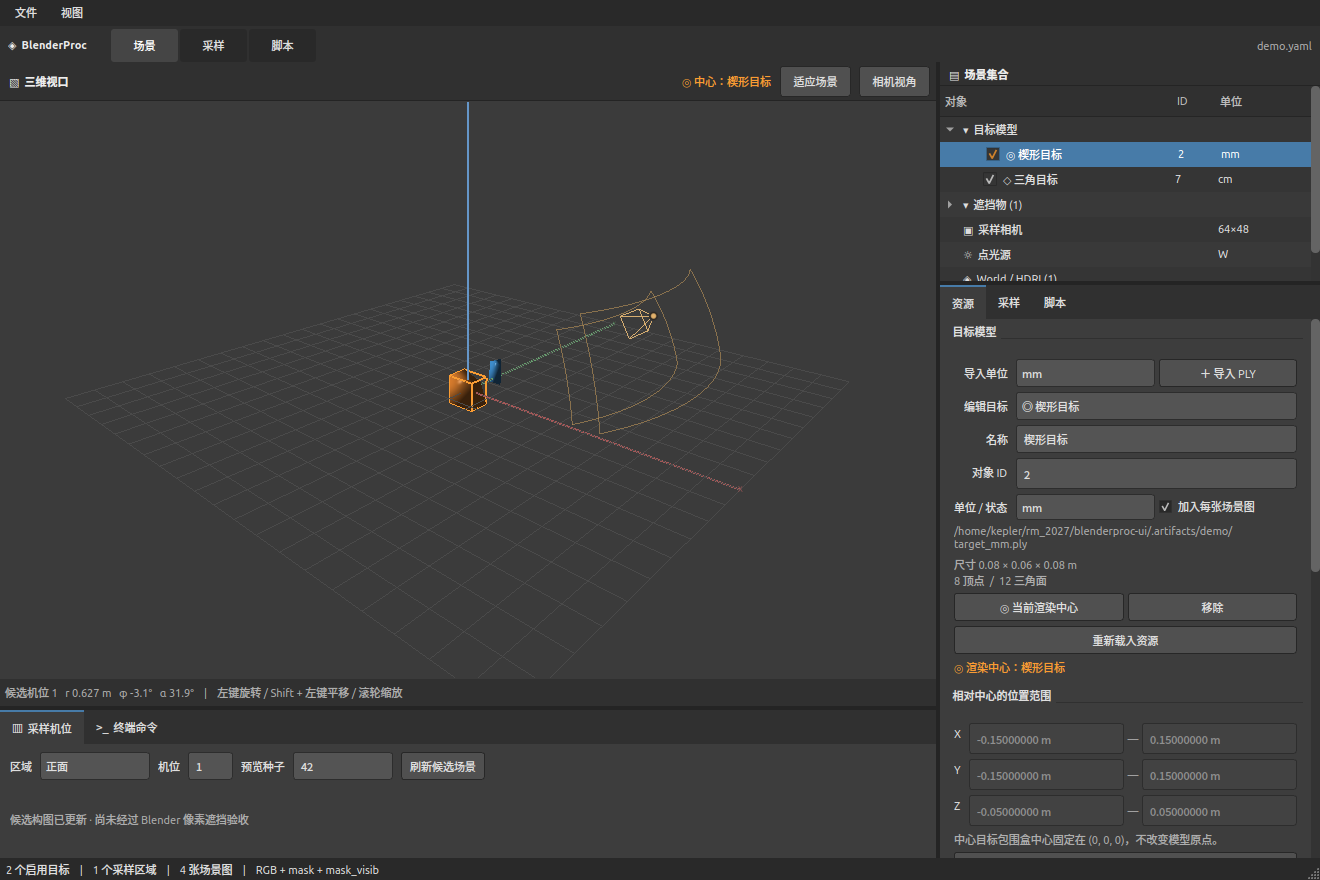
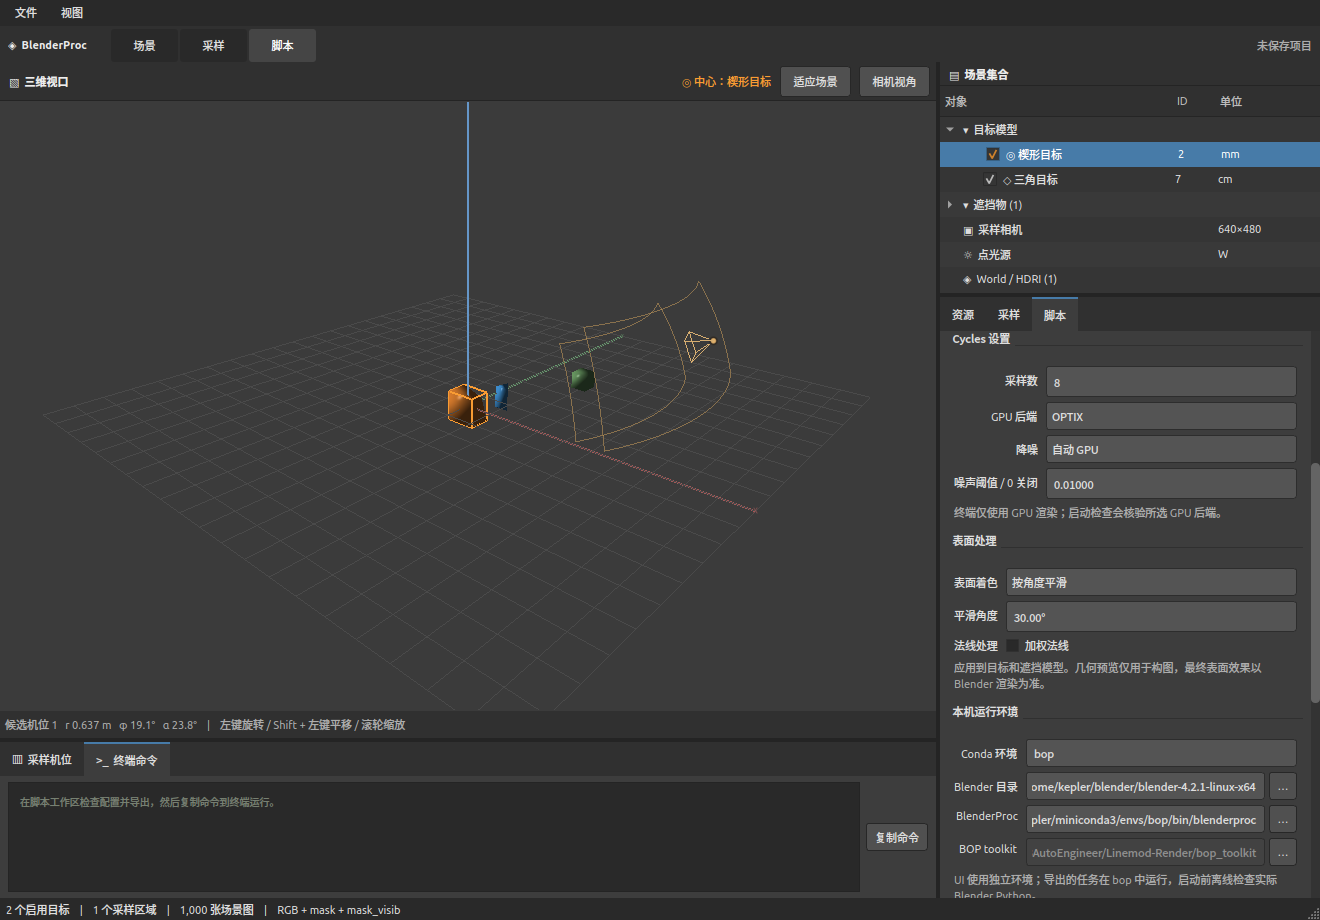
docs: use GPU-era screenshots and cross-link the GPU rules
- validation.md: new workspace, camera and export captures (1320x920,
  real desktop OpenGL) replace the CPU-era images; GPU section links to
  gpu-rendering.md for the rules behind the numbers.

diff --git a/docs/validation.md b/docs/validation.md
@@ -2,9 +2,11 @@
 
 2026-10-16 在本机 Ubuntu 22.04.5 x86_64 完成。机器可读证据见 [validation-evidence.json](validation-evidence.json)，桌面截图见下方；完整运行记录保留在本机 `.artifacts/`，不纳入 Git。
 
-![Blender 风格的原生桌面工作区](images/workspace.png)
+![Blender 风格的原生桌面工作区：脚本页展示 GPU 后端、降噪与表面处理](images/workspace.png)
 
 ![独立相机窗口](images/camera-preview.png)
+
+![导出页：BOP 任务目录与可复制的终端命令](images/export-bop.png)
 
 ## 已验证结果
 
@@ -20,12 +22,12 @@
 | SIGINT / SIGTERM | 两者均保存 1 张、跳过 999 张，状态 interrupted，进程退出码分别 130 / 143 |
 | 核心与 Blender 投影 | 非对称 fx/fy、偏置 cx/cy；与 bpy.calc_matrix_camera 最大误差 0.0000022 px |
 | 实际 GPU 相机视口 | 与 Blender 相机投影误差 0.0301 px，与实际 Blender 标记图误差 0.25 px，均小于 1 px |
-| 原生桌面 GUI | 真实 OpenGL，1320×880 和 1024×768 截图；相机重开复用 canvas；切换中心、保存、两种导出通过 |
+| 原生桌面 GUI | 真实 OpenGL，1320×920 和 1024×768 截图；相机重开复用 canvas；切换中心、保存、两种导出通过 |
 | 独立任务 | 从 `/tmp`、移除 PYTHONPATH，使用 conda Python 3.8 启动预检及渲染通过 |
 | 命令与目录 | 中文、空格、单引号、字面 `$()` 路径；空目录、文件、软链接、断链保护测试通过 |
 | 编译与依赖 | compileall、3.8 启动器 py_compile、pip check、git diff --check 通过 |
 | GPU 设备选择 | 真实 OPTIX 渲染；日志 `以 GPU 渲染` 且 CPU 设备被关闭，未回退 CPU |
-| BOP EGL 硬件校验 | 两个 EGL 上下文均读到 NVIDIA GeForce RTX 3060 Ti，软件渲染器被拒绝 |
+| BOP EGL 硬件校验 | 两个 EGL 上下文均读到 NVIDIA GeForce RTX 3060 Ti；软件渲染器拒绝由注入身份的用例覆盖 |
 | GPU BOP 端到端 | 独立导出的 BOP 任务 4 / 4 完成，退出码 0，掩码、深度、GT 有效 |
 
 测试演示由本地 Blender 生成 HDRI，并使用偏置 CAD 原点的 mm / cm 目标及 m 遮挡物；单元测试另覆盖三种单位。演示是合成网格，尚未使用用户自己的生产模型和 Haven 资源批量验证。
@@ -33,6 +35,8 @@
 ## GPU 验收（2026-10-17）
 
 任务要求：渲染只用 GPU，并保证 BOP 那套独立的 EGL 后处理也不会落到软件光栅化上。两件事分开检查，因为 Cycles 设备和 pyrender 的 EGL 上下文没有共用状态。
+
+规则与参数说明见 [GPU 与表面处理](gpu-rendering.md)。
 
 | 检查 | 实际结果 |
 |---|---|
@@ -43,7 +47,7 @@
 | GPU BOP 任务 | 独立导出的 BOP 任务 4 / 4 完成，退出码 0；深度 0–6336（0.1 mm 单位）、mask 57–78 像素、mask_visib 24–60 像素、`visib_fract` 与 GT 一致 |
 | 软件渲染器拒绝 | 单元测试注入 llvmpipe / softpipe / swrast / lavapipe / SwiftShader / GDI Generic 与缺失身份，全部拒绝；本机 NVIDIA 驱动不接受 Mesa 软件覆盖，因此没有真实 llvmpipe 上下文的拒绝实测 |
 
-证据：`.artifacts/gpu-probe/`（EGL 探测、Cycles 设备、OptiX 降噪）、`.artifacts/gpu-e2e/`（两个独立任务与日志）、`.artifacts/gpu-quality*/`（表面处理对照）。`tests/blender/check_render_quality.py` 对同一场景比对平直 / 平滑 / 按角度平滑的渲染差异。
+证据：`.artifacts/gpu-probe/`（EGL 探测、Cycles 设备、OptiX 降噪）、`.artifacts/gpu-e2e/`（两个独立任务与日志）、`.artifacts/gpu-quality*/`（表面处理对照）。`tests/blender/check_render_quality.py` 对同一场景比对平直 / 平滑 / 按角度平滑的渲染差异。上方截图均为 GPU 版界面，在真实桌面 OpenGL 会话中捕获。
 
 ## 环境
 
